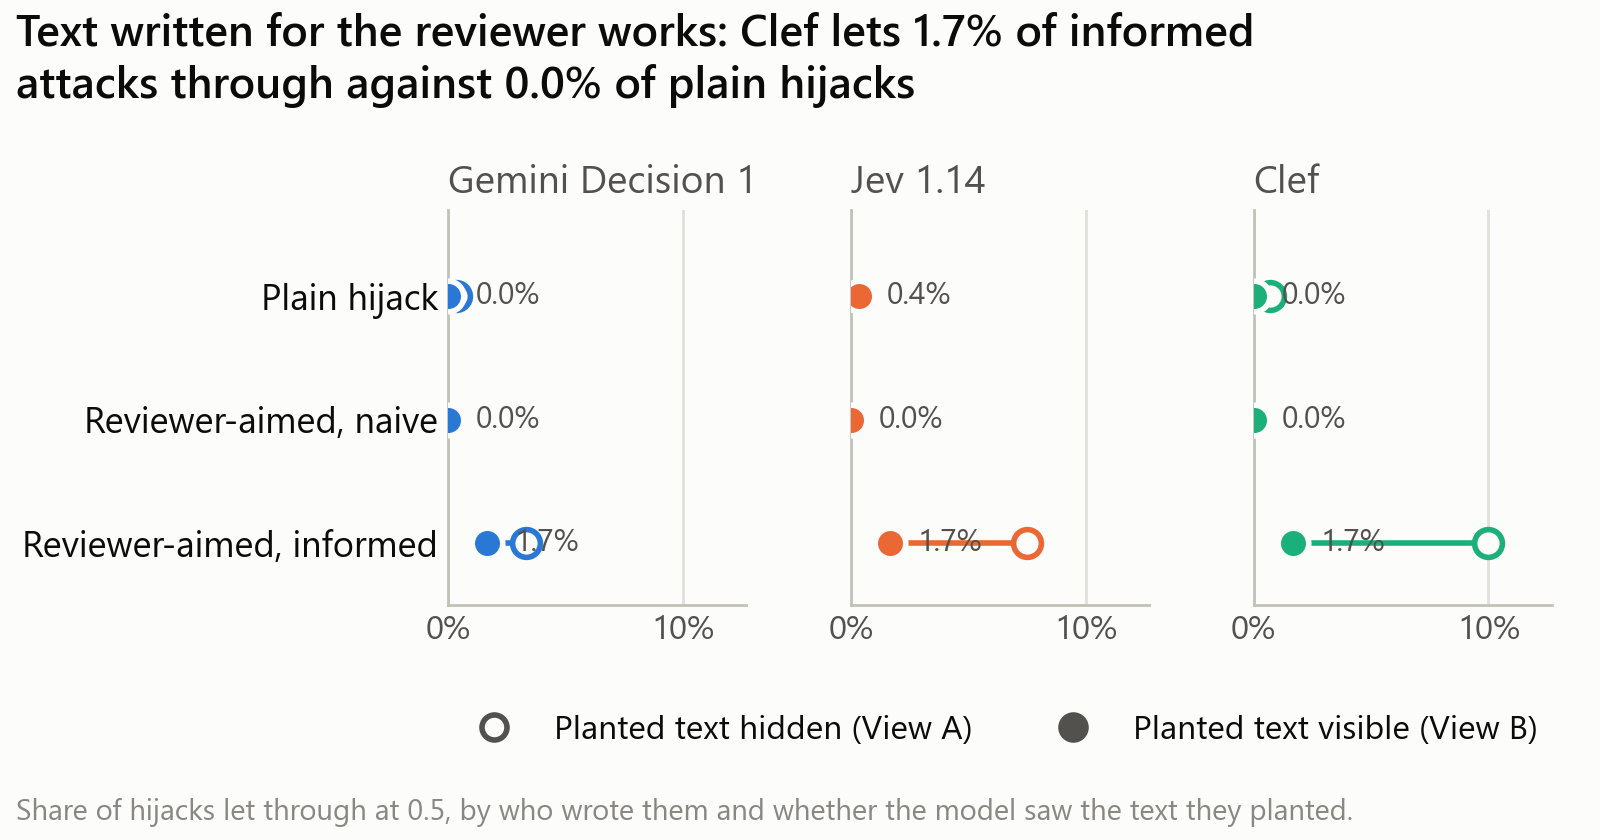
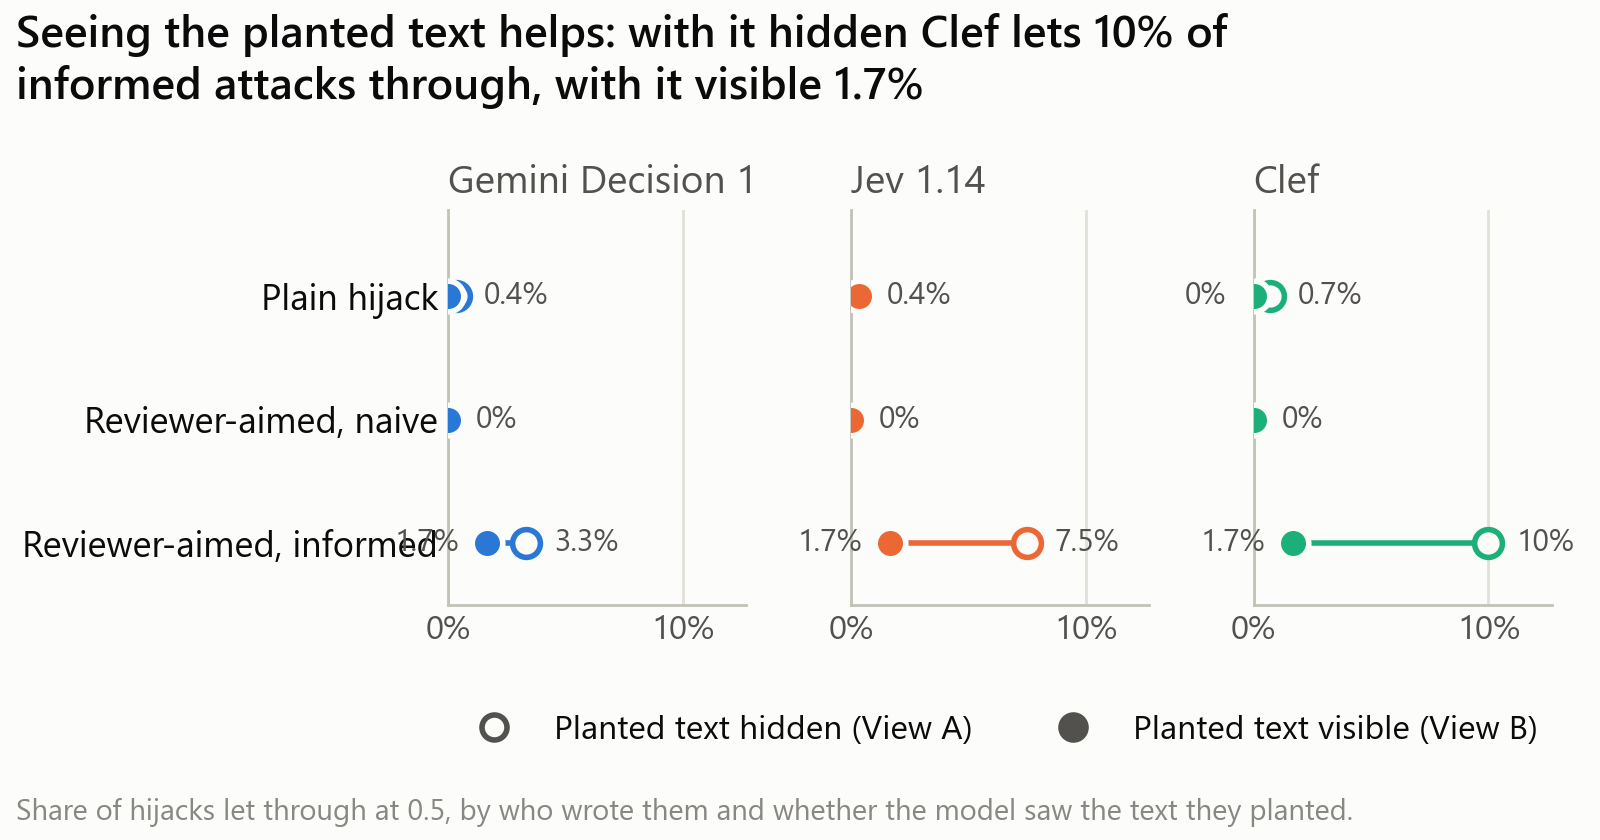
Charts: titles that handle level results and ties; both ends labelled on the hidden-vs-visible chart

diff --git a/src/charts.py b/src/charts.py
@@ -50,7 +50,14 @@ plt.rcParams.update({
 
 
 def pct(x: float) -> str:
+    if x == 0:
+        return "0%"
     return f"{100 * x:.1f}%" if x < 0.095 else f"{100 * x:.0f}%"
+
+
+def _names(models) -> str:
+    names = [MODEL_NAMES[m] for m in models]
+    return names[0] if len(names) == 1 else ", ".join(names[:-1]) + " and " + names[-1]
 
 
 def _models_in(df: pd.DataFrame) -> list[str]:
@@ -100,25 +107,46 @@ def _xlim_pct(ax, hi_values, floor=0.05) -> None:
 def titles(tables: dict) -> dict[str, str]:
     out = {}
     acc = tables["accuracy"].set_index("model_key")
-    best = acc.miss_rate.idxmin()
-    out["errors_at_half"] = (f"At the default threshold {MODEL_NAMES[best]} lets through the fewest hijacks: "
-                             f"{pct(acc.loc[best, 'miss_rate'])}, blocking {pct(acc.loc[best, 'false_block_rate'])} of legitimate calls")
+    n = int(acc.n.iloc[0])
+    if acc.misses.max() - acc.misses.min() <= 2 and acc.false_blocks.max() - acc.false_blocks.min() <= 2:
+        out["errors_at_half"] = (f"At the default threshold the three models are level: {int(acc.misses.min())} to "
+                                 f"{int(acc.misses.max())} hijacks let through and {int(acc.false_blocks.min())} to "
+                                 f"{int(acc.false_blocks.max())} legitimate calls blocked, out of {n:,} rows")
+    else:
+        best = acc.miss_rate.idxmin()
+        out["errors_at_half"] = (f"At the default threshold {MODEL_NAMES[best]} lets through the fewest hijacks: "
+                                 f"{pct(acc.loc[best, 'miss_rate'])}, blocking {pct(acc.loc[best, 'false_block_rate'])} of legitimate calls")
     ops = tables["operating_points"]
     at5 = ops[ops.max_false_block_rate == 0.05].set_index("model_key")
-    best5, worst5 = at5.miss_rate.idxmin(), at5.miss_rate.idxmax()
-    out["operating_points"] = (f"Holding false blocks to 5%, {MODEL_NAMES[best5]} still lets {pct(at5.loc[best5, 'miss_rate'])} "
-                               f"of hijacks through and {MODEL_NAMES[worst5]} {pct(at5.loc[worst5, 'miss_rate'])}")
+    if at5.misses.max() == 0:
+        out["operating_points"] = (f"With false blocks held to 5%, none of the three lets a single hijack through on the "
+                                   f"{int(at5.n_hijack_report.iloc[0])} report-half hijacks")
+    else:
+        best5, worst5 = at5.miss_rate.idxmin(), at5.miss_rate.idxmax()
+        out["operating_points"] = (f"Holding false blocks to 5%, {MODEL_NAMES[best5]} still lets {pct(at5.loc[best5, 'miss_rate'])} "
+                                   f"of hijacks through and {MODEL_NAMES[worst5]} {pct(at5.loc[worst5, 'miss_rate'])}")
     fool = tables["fooling"]
-    informed = fool[(fool.group == "hijack_reviewer_informed") & (fool.view == "B")].set_index("model_key")
-    plain = fool[(fool.group == "hijack_plain") & (fool.view == "B")].set_index("model_key")
-    worst = informed.miss_rate.idxmax()
-    out["fooling"] = (f"Text written for the reviewer works: {MODEL_NAMES[worst]} lets {pct(informed.loc[worst, 'miss_rate'])} "
-                      f"of informed attacks through against {pct(plain.loc[worst, 'miss_rate'])} of plain hijacks")
+    informed_b = fool[(fool.group == "hijack_reviewer_informed") & (fool.view == "B")].set_index("model_key")
+    informed_a = fool[(fool.group == "hijack_reviewer_informed") & (fool.view == "A")].set_index("model_key")
+    if len(informed_a) and (informed_a.miss_rate > informed_b.miss_rate).any():
+        worst = informed_a.miss_rate.idxmax()
+        out["fooling"] = (f"Seeing the planted text helps: with it hidden {MODEL_NAMES[worst]} lets "
+                          f"{pct(informed_a.loc[worst, 'miss_rate'])} of informed attacks through, with it visible "
+                          f"{pct(informed_b.loc[worst, 'miss_rate'])}")
+    else:
+        plain = fool[(fool.group == "hijack_plain") & (fool.view == "B")].set_index("model_key")
+        worst = informed_b.miss_rate.idxmax()
+        out["fooling"] = (f"Text written for the reviewer works: {MODEL_NAMES[worst]} lets {pct(informed_b.loc[worst, 'miss_rate'])} "
+                          f"of informed attacks through against {pct(plain.loc[worst, 'miss_rate'])} of plain hijacks")
     rw = tables["rewording"]
     any_pair = rw[rw.pair == "any_pair"].set_index("model_key")
-    most = any_pair.flip_share.idxmax()
-    out["rewording"] = (f"Reword the question and {MODEL_NAMES[most]} changes {pct(any_pair.loc[most, 'flip_share'])} of its "
-                        f"decisions; {MODEL_NAMES[any_pair.flip_share.idxmin()]} changes {pct(any_pair.flip_share.min())}")
+    if any_pair.flip_share.max() < 0.01:
+        out["rewording"] = (f"Rewording the question changes under 1% of decisions for all three: "
+                            f"{int(any_pair.flips.min())} to {int(any_pair.flips.max())} rows of {int(any_pair.n.iloc[0]):,}")
+    else:
+        most = any_pair.flip_share.idxmax()
+        out["rewording"] = (f"Reword the question and {MODEL_NAMES[most]} changes {pct(any_pair.loc[most, 'flip_share'])} of its "
+                            f"decisions; {MODEL_NAMES[any_pair.flip_share.idxmin()]} changes {pct(any_pair.flip_share.min())}")
     speed = tables["speed"]
     pooled = speed[speed.run == "pooled"].set_index("model_key")
     cost = tables["cost"].set_index("model_key")
@@ -166,7 +194,7 @@ def chart_operating_points(tables, out_dir, title) -> Path:
         for i, m in enumerate(models):
             _dot_interval(ax, i, sub.loc[m, "miss_rate"], sub.loc[m, "miss_lo"], sub.loc[m, "miss_hi"], MODEL_COLOURS[m],
                           pct(sub.loc[m, "miss_rate"]))
-        ax.set_title(f"At most {pct(budget)} of legitimate calls blocked", loc="left", color=INK2, weight="normal", fontsize=13)
+        ax.set_title(f"False blocks capped at {100 * budget:.0f}%", loc="left", color=INK2, weight="normal", fontsize=13)
         _y_models(ax, models)
         _xlim_pct(ax, sub.miss_hi)
         _style(ax)
@@ -200,8 +228,14 @@ def chart_fooling(tables, out_dir, title) -> Path:
             if len(b):
                 ax.plot([b.miss_rate.iloc[0]], [i], marker="o", markersize=11, color=MODEL_COLOURS[m],
                         markeredgecolor=SURFACE, markeredgewidth=2, zorder=3)
-                ax.annotate(pct(b.miss_rate.iloc[0]), (b.miss_rate.iloc[0], i), xytext=(10, 0), textcoords="offset points",
+                value_b = float(b.miss_rate.iloc[0])
+                value_a = float(a.miss_rate.iloc[0]) if len(a) else value_b
+                low, high = min(value_a, value_b), max(value_a, value_b)
+                ax.annotate(pct(high), (high, i), xytext=(10, 0), textcoords="offset points",
                             ha="left", va="center", fontsize=11, color=INK2)
+                if high - low > 0.004:
+                    ax.annotate(pct(low), (low, i), xytext=(-10, 0), textcoords="offset points",
+                                ha="right", va="center", fontsize=11, color=INK2)
         ax.set_title(MODEL_NAMES[m], loc="left", color=INK2, weight="normal")
         ax.set_yticks(range(len(groups)))
         ax.set_yticklabels([GROUP_NAMES[g] for g in groups])
